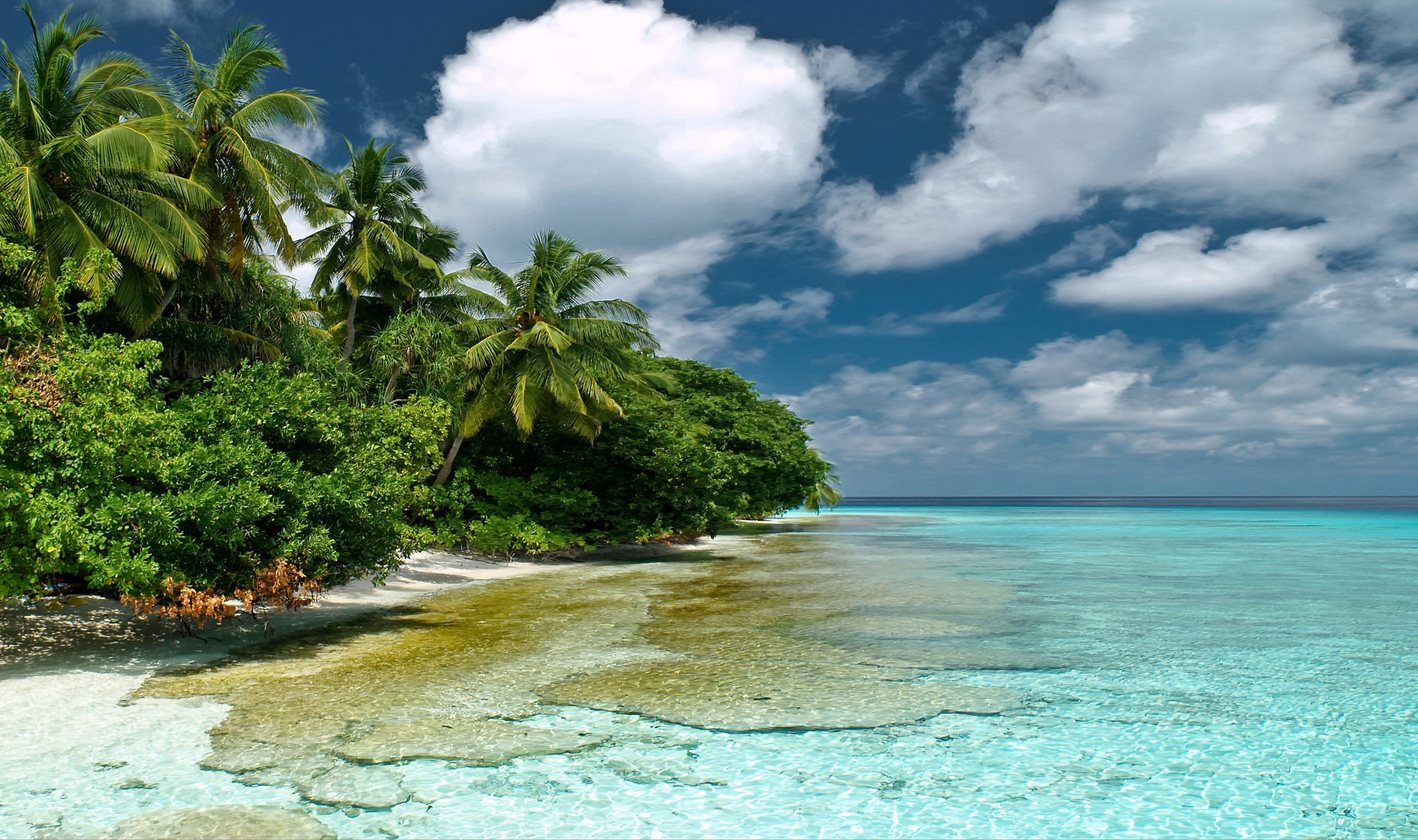
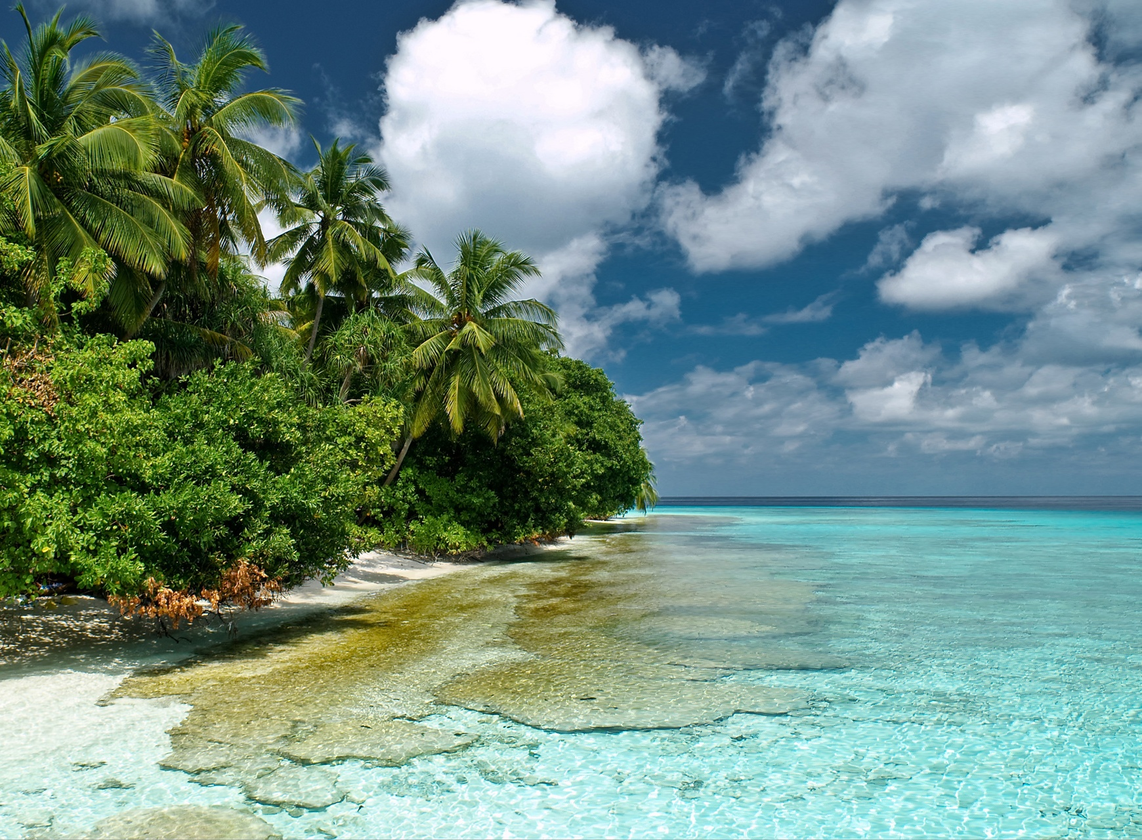
Add main.py, we can call all function in here. Ver1.

diff --git a/resize.py b/resize.py
@@ -5,7 +5,7 @@ from scipy import ndimage as ndi
 import cv2
 import matplotlib.pyplot as plt
 import time
-from skimage import color
+import argparse
 
 def show_seam(img: np.ndarray, seam):
     h, w = img.shape[:2]
@@ -89,16 +89,14 @@ def get_forward_seam(I: np.ndarray, mask: np.ndarray = None):
     return seams
 
 
-def delete_vertical(img: np.ndarray):
+def delete_vertical(img: np.ndarray, forward: bool):
 
     f = np.array([1, -2, 1])
-
-    energy_map = compute_energyMap(img, f)
-    # energy_map = compute_forward_energy(img)
-    assert(energy_map.shape == img.shape[:2])
-
-    seam = find_seam(energy_map=energy_map)
-    # seam = get_forward_seam(img)
+    if forward:
+        seam = get_forward_seam(img)
+    else :
+        energy_map = compute_energyMap(img, f)
+        seam = find_seam(energy_map=energy_map)
     ret = remove(img=img, seam=seam)
     return ret
 
@@ -106,35 +104,20 @@ def delete_horizontal(img: np.ndarray):
     img = np.transpose(img, (1, 0, 2))
     ret = delete_vertical(img)
     return np.transpose(ret, (1, 0, 2))
-def resize_image(img: np.ndarray, delete_height: int, delete_width: int):
+
+def resize_image(img: np.ndarray, delete_height: int, delete_width: int, forward: bool):
     h, w, _ = img.shape
     resized_img = img
     while delete_height > 0 or delete_width > 0:
         if delete_height > 0 and (delete_width == 0 or delete_height >= delete_width):
-            resized_img = delete_horizontal(resized_img)
+            resized_img = delete_horizontal(resized_img, forward)
             delete_height -= 1
         elif delete_width > 0:
-            resized_img = delete_vertical(resized_img)
+            resized_img = delete_vertical(resized_img, forward)
             delete_width -= 1
     return resized_img
 
-def main():
-    start_time = time.time()
-#<<<<<<< 133
-    img = cv2.imread('image/bench3.jpg')
-    numOfDelete_H = 200
-    numOfDelete_W = 200
-# =======
-#     img = cv2.imread('image/bench3.png')
-#     numOfDelete = 200
-# >>>>>>> master
-    origin_img = cv2.cvtColor(img, cv2.COLOR_BGR2RGB)
-    img = origin_img
-    # for i in range(numOfDelete):
-    #     # print(f"img[50, 10:20] = {img[50, 10:20]}")
-    #     img = delete_vertical(img)
-    img = resize_image(origin_img, numOfDelete_H, numOfDelete_W)
-    print('Time used: {} sec'.format(time.time()-start_time))
+def show_result(origin_img, img):
     img = np.int32(img)
     fig, axes = plt.subplots(2, 1, figsize = (9, 10))
     axes[0].imshow(origin_img)
@@ -142,17 +125,6 @@ def main():
     axes[0].set_title('origin image')
     axes[1].imshow(img)
     axes[1].axis(False)
-    axes[1].set_title(f"Result of H :{numOfDelete_H} W :{numOfDelete_W} deletion")
+    axes[1].set_title(f"Result")
     plt.tight_layout()
     plt.show()
-    img = img.astype(np.uint8)
-    img = cv2.cvtColor(img, cv2.COLOR_RGB2BGR)
-#<<<<<<< 133
-    cv2.imwrite("out/bench3_resize_HighAndWidth.jpg", img)
-# =======
-#     cv2.imwrite("out/bench3_backward.jpg", img)
-# >>>>>>> master
-
-if __name__ == "__main__":
-    main()
-

diff --git a/main.py b/main.py
@@ -1,0 +1,64 @@
+import numpy as np
+import time
+import argparse
+import cv2
+from resize import resize_image
+from enlarge import enlarge_image
+from objRemove import obj_remove
+
+
+def main():
+    arg = argparse.ArgumentParser()
+    arg.add_argument("-mask", help="Path to mask")
+    arg.add_argument("-image", help="Path to image", required=True)
+    arg.add_argument("-forward", action="store_true", help="Use forward energy")
+    arg.add_argument("-resize", action="store_true", help="whether user want to resize img")
+    arg.add_argument("-enlarge", action="store_true")
+    arg.add_argument("-numOfDelete_H", help="# horizontal seam to be deleted (insert if neg)")
+    arg.add_argument("-numOfDelete_W", help="# vertical seam to be deleted (insert if neg)")
+    args = arg.parse_args()
+
+    imgPath, maskPath = args.image, args.mask
+    if args.resize or args.enlarge:
+        if args.numOfDelete_H is None or args.numOfDelete_W is None:
+            arg.error(
+                "When using the -resize option, you must also provide both -numOfDelete_H and -numOfDelete_W."
+            )
+        # Convert to integers
+        numOfDelete_H = int(args.numOfDelete_H)
+        numOfDelete_W = int(args.numOfDelete_W)
+    else:
+        numOfDelete_H, numOfDelete_W = None, None
+
+    img = cv2.imread(imgPath)
+    if maskPath is not None:
+        mask = np.array(cv2.imread(maskPath))
+        mask = np.where(mask == 0, False, True)
+    else:
+        mask = None
+
+    origin_img = cv2.cvtColor(img, cv2.COLOR_BGR2RGB)
+    img = origin_img
+
+    if args.resize:
+        start_time = time.time()
+        img = resize_image(origin_img, numOfDelete_H, numOfDelete_W, args.forward)
+        print('Time used: {} sec'.format(time.time() - start_time))
+    if args.enlarge:
+        start_time = time.time()
+        img = enlarge_image(origin_img, numOfDelete_W)
+        print('Time used: {} sec'.format(time.time() - start_time))
+    if mask is not None:
+        start_time = time.time()
+        img = obj_remove(origin_img, mask, args.forward)
+        print('Time used: {} sec'.format(time.time() - start_time))
+
+    name = imgPath.split("/")[-1]  # Fixed to handle different OS path formats
+    output_path = "out/" + name
+    img = img.astype(np.uint8)
+    img = cv2.cvtColor(img, cv2.COLOR_RGB2BGR)
+    cv2.imwrite(output_path, img)
+
+
+if __name__ == "__main__":
+    main()

diff --git a/enlarge.py b/enlarge.py
@@ -65,11 +65,10 @@ def remove_seam(image, seam):
     
     return reduced
 
-def enlarge_image(image, scale_factor):
+def enlarge_image(image, num_seams):
     """Enlarge the image by finding and duplicating multiple seams."""
     rows, cols, _ = image.shape
-    target_cols = int(cols * scale_factor)
-    num_seams = target_cols - cols
+    target_cols = int(cols + num_seams)
 
     # Find multiple seams for removal
     seams = find_multiple_seams(image, num_seams)
@@ -79,11 +78,11 @@ def enlarge_image(image, scale_factor):
 
     return enlarged_image
 
-start_time = time.time()
-# 測試
-image = cv2.imread('image/beach.jpg')  # 載入圖像
-scale_factor = 1.5  # 放大比例
-enlarged_image = enlarge_image(image, scale_factor)
-print('Elapsed time: %.2f seconds' % (time.time() - start_time))
-# 保存結果
-cv2.imwrite('out/enlarged_image.jpg', enlarged_image)
+# start_time = time.time()
+# # 測試
+# image = cv2.imread('image/beach.jpg')  # 載入圖像
+# num_seams = 300  # 放大比例
+# enlarged_image = enlarge_image(image, num_seams)
+# print('Elapsed time: %.2f seconds' % (time.time() - start_time))
+# # 保存結果
+# cv2.imwrite('out/enlarged_image.jpg', enlarged_image)

diff --git a/objRemove.py b/objRemove.py
@@ -16,6 +16,20 @@ def update_mask(mask: np.ndarray[np.bool_], seam):
         ret[i, m:] = mask[i, m+1:]
     return ret
 
+def obj_remove(img:np.ndarray, mask: np.ndarray, forward: bool):
+    f = np.array([1, -2, 1])
+    while(np.isin(mask, False).any()):
+        if forward:
+            seam = get_forward_seam(img, mask)
+        else:
+            energyMap = compute_energyMap(img, f)
+            energyMap[mask[:, :, 0] == False] = -1e6
+            seam = find_seam(energyMap)
+        # show_seam(img, seam)
+        mask = update_mask(mask=mask, seam=seam)
+        img = remove(img=img, seam=seam)
+    return img
+
 def main():
     arg = argparse.ArgumentParser()
     arg.add_argument("-mask", help="Path to mask",required=True)
